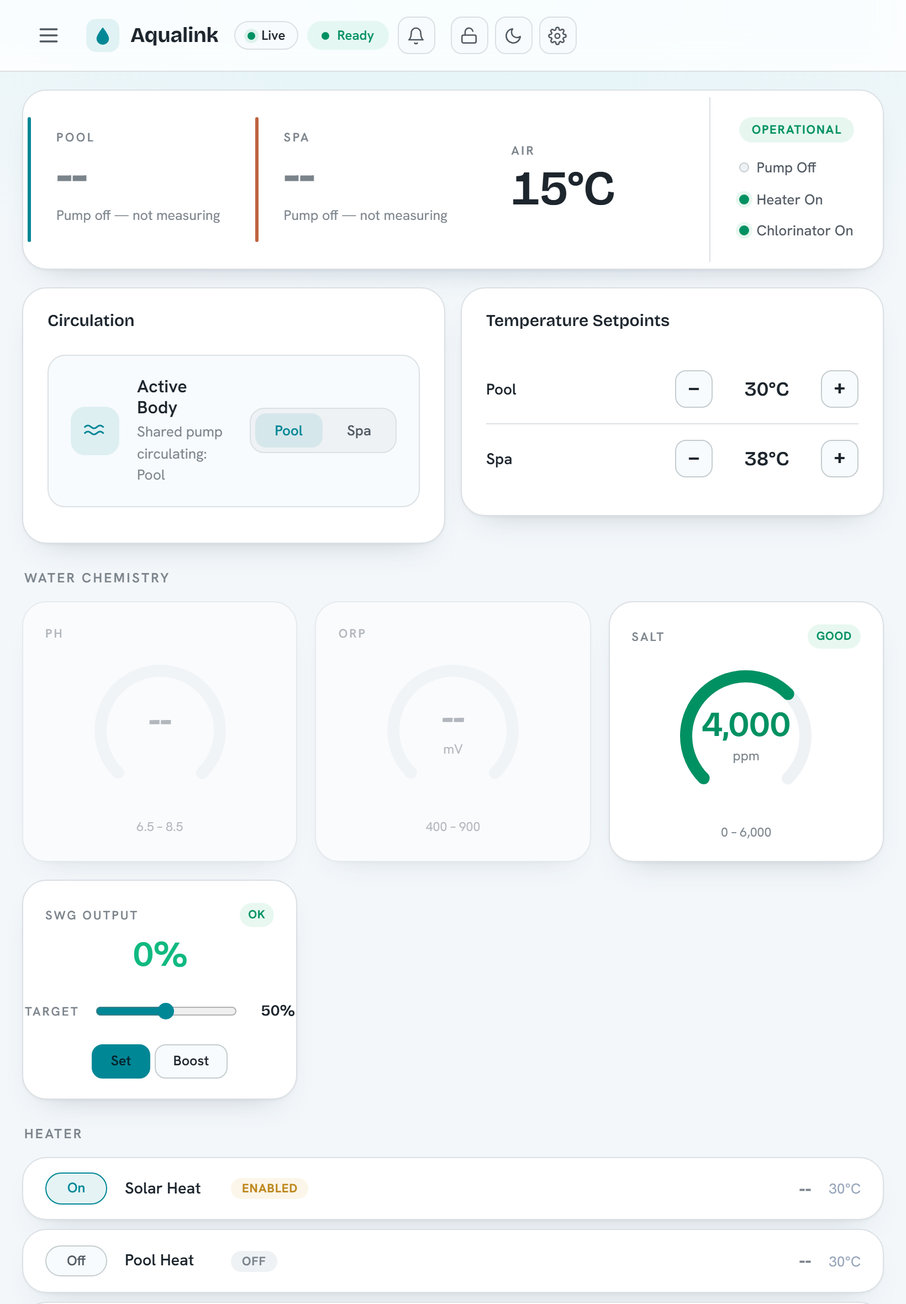
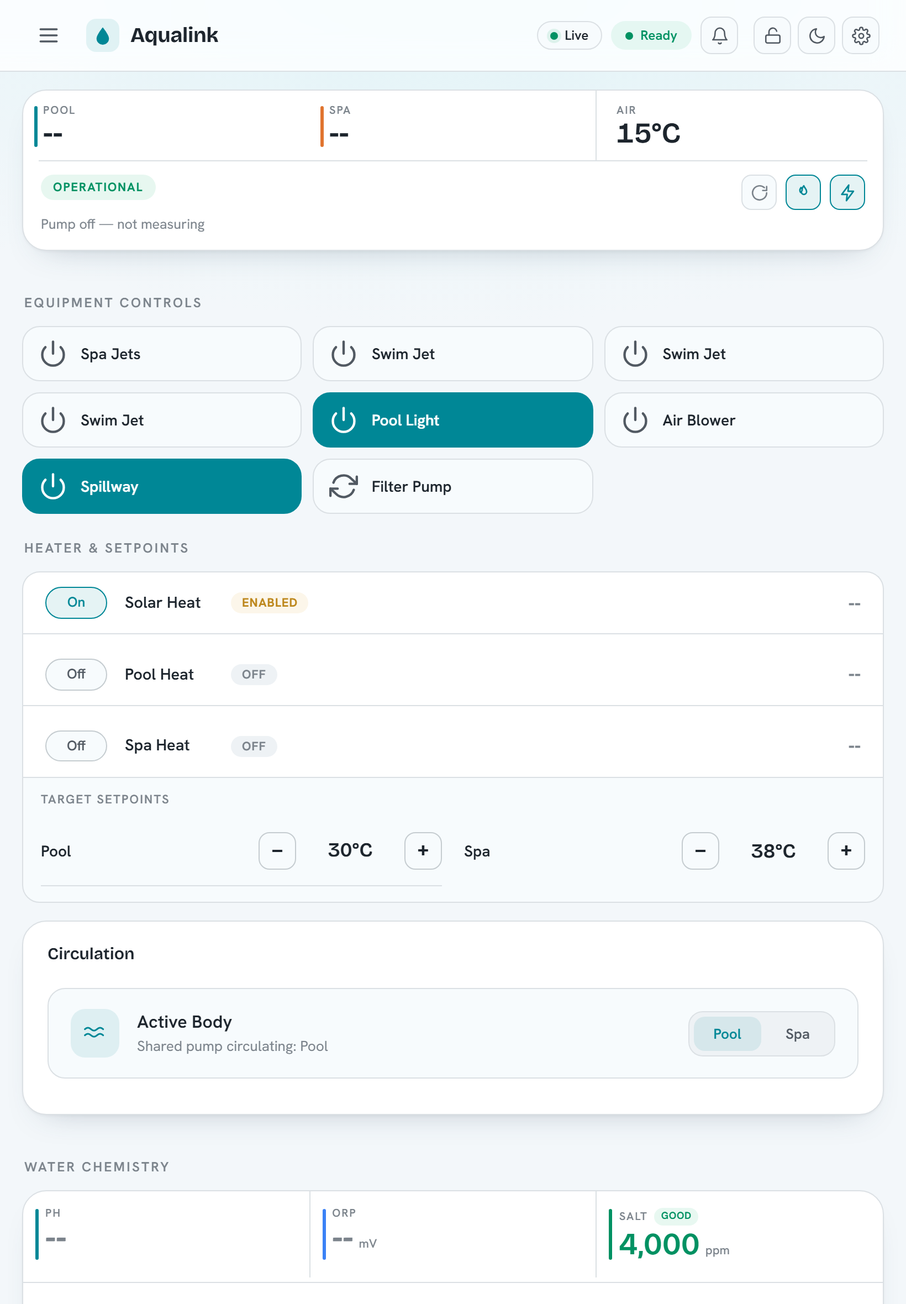
fix(web): match the phone dashboard to the mockup (summary, chem, heater, circ)
Close the remaining phone/compact gaps against the locked mockup:

- Status summary: a dedicated compact-summary card (divided Pool·Spa·Air
  temps + a divider + an OPERATIONAL pill with pump/heater/chlorinator
  status ICONS that fill with the accent when on + one caption), replacing
  the shrunk big strip. Shown < 1024 and on iPad landscape; desktop keeps
  the big strip.
- Heater: section title is now 'Heater & Setpoints', the footer is 'Target
  Setpoints', and the rows join the footer SEAMLESSLY — the flatten rule
  used :has(+ ...) but Alpine's <template> sits between the rows and the
  rendered footer, so the adjacent-sibling combinator never matched and the
  rounded corners stayed; switched to :has(~ ...) and gave the footer a
  surface-2 tint.
- Water chemistry: the band chip (GOOD) sits inline with the label, the
  unit is an inline <small> after the value, and SWG shows output+value
  with Set/Boost on the right and the target slider on its own row.
- Circulation: on phone the Pool/Spa toggle drops below the icon+text as a
  full-width segmented control (iPad portrait keeps it to the right).
- Equipment tap-tiles are shorter on compact (50 vs 66px).
- Header: right-align the status pills + control icons on iPad portrait.
- Bottom padding raised so the last card clears the fixed tab bar.

New i18n keys dash.heater_setpoints + dash.target_setpoints across all 9
locales (parity checked). Regenerated the mobile + tablet doc screenshots;
[…]

diff --git a/assets/web/index.html b/assets/web/index.html
@@ -1043,8 +1043,55 @@
         <!-- ====== DASHBOARD VIEW ====== -->
         <div class="dash-view" x-show="route === 'dashboard'" x-cloak x-data="dashboardView()">
 
-            <!-- Summary Strip -->
-            <div class="summary-strip card mt-2 mb-2" x-data="poolGraphic()" role="region" :aria-label="$t('dash.summary_aria')">
+            <!-- Compact status summary (phone / iPad portrait / landscape) — the
+                 divided Pool·Spa·Air temps, an OPERATIONAL pill with pump / heater
+                 / chlorinator status icons (accent-filled when on), and a single
+                 status caption. Replaces the big summary strip below on compact. -->
+            <div class="compact-summary card mt-2 mb-2" x-data="poolGraphic()"
+                 x-show="$store.layout.isCompact" x-cloak role="region" :aria-label="$t('dash.summary_aria')">
+                <div class="csum-temps">
+                    <div class="csum-cell csum-cell--pool">
+                        <span class="csum-accent" aria-hidden="true"></span>
+                        <span class="csum-label" x-text="$t('common.pool')"></span>
+                        <span class="csum-value" :class="$store.pool.tempStateClass('poolTemp')" x-text="poolTempDisplay"></span>
+                    </div>
+                    <div class="csum-cell csum-cell--spa" x-show="$store.pool.hasDualBody" x-cloak>
+                        <span class="csum-accent" aria-hidden="true"></span>
+                        <span class="csum-label" x-text="$t('common.spa')"></span>
+                        <span class="csum-value" :class="$store.pool.tempStateClass('spaTemp')" x-text="spaTempDisplay"></span>
+                    </div>
+                    <div class="csum-cell csum-cell--air">
+                        <span class="csum-accent" aria-hidden="true"></span>
+                        <span class="csum-label" x-text="$t('common.air')"></span>
+                        <span class="csum-value" :class="$store.pool.tempStateClass('airTemp')" x-text="airTempDisplay"></span>
+                    </div>
+                </div>
+                <div class="csum-divider" aria-hidden="true"></div>
+                <div class="csum-statusrow">
+                    <span class="hero-status-pill"
+                          :class="$store.pool.systemStatus === 'Operational' ? 'is-ok' : 'is-warn'"
+                          x-text="($store.pool.systemStatus ? $store.pool.systemStatusLabel : $t('common.unknown')).toUpperCase()"></span>
+                    <div class="csum-icons">
+                        <span class="csum-icon" :class="{ 'is-on': pumpActive }"
+                              :title="$t('dash.pump_state', { state: pumpActive ? $t('common.on') : $t('common.off') })">
+                            <svg viewBox="0 0 24 24" fill="none" stroke="currentColor" stroke-width="1.9" stroke-linecap="round" stroke-linejoin="round" aria-hidden="true"><path d="M21 12a9 9 0 1 1-3-6.7"/><path d="M21 4v5h-5"/></svg>
+                        </span>
+                        <span class="csum-icon" :class="{ 'is-on': heaterActive }"
+                              :title="$t('dash.heater_state', { state: heaterActive ? $t('common.on') : $t('common.off') })">
+                            <svg viewBox="0 0 24 24" fill="none" stroke="currentColor" stroke-width="1.9" stroke-linecap="round" stroke-linejoin="round" aria-hidden="true"><path d="M12 3c.8 2.6 3.6 3.8 3.6 7.4A3.6 3.6 0 0 1 12 14a3 3 0 0 1-3-3c0-1 .6-1.9 1-2.3C9 10.2 8 11.6 8 11.6 6.8 10.2 6.6 7.8 8.4 5.2 8.8 7 10 7.3 10 7.3 10 5.2 11 4 12 3z"/></svg>
+                        </span>
+                        <span class="csum-icon" x-show="hasChlorinator" x-cloak :class="{ 'is-on': chlorinatorActive }"
+                              :title="$t('dash.chlorinator_state', { state: chlorinatorActive ? $t('common.on') : $t('common.off') })">
+                            <svg viewBox="0 0 24 24" fill="none" stroke="currentColor" stroke-width="1.9" stroke-linecap="round" stroke-linejoin="round" aria-hidden="true"><path d="M13 2 4 14h7l-1 8 9-12h-7z"/></svg>
+                        </span>
+                    </div>
+                </div>
+                <div class="csum-caption" x-show="$store.pool.tempReason('poolTemp')" x-cloak
+                     x-text="$store.pool.tempReason('poolTemp')"></div>
+            </div>
+
+            <!-- Summary Strip (desktop) -->
+            <div class="summary-strip card mt-2 mb-2" x-data="poolGraphic()" x-show="!$store.layout.isCompact" x-cloak role="region" :aria-label="$t('dash.summary_aria')">
                 <!-- Pool -->
                 <div class="summary-section">
                     <span class="summary-accent summary-accent--pool" aria-hidden="true"></span>
@@ -1274,41 +1321,45 @@
                     <template x-for="type in ['ph', 'orp', 'salt']" :key="type">
                         <div class="chem-cell" x-data="chemistryGauge(type)" :class="'chem-cell--' + type">
                             <span class="chem-cell-accent" aria-hidden="true"></span>
-                            <span class="chem-cell-label" x-text="cfg.label"></span>
-                            <span class="chem-cell-value" :style="`color:${statusColor}`"
-                                  x-text="numericValue === null ? '--' : $nf(numericValue, cfg.decimals)"></span>
-                            <span class="chem-cell-unit" x-text="unitLabel"></span>
-                            <span class="chem-cell-band" x-show="band" :class="'gauge-band-' + (band || '')" x-text="statusLabel"></span>
+                            <span class="chem-cell-label">
+                                <span x-text="cfg.label"></span>
+                                <span class="chem-cell-band" x-show="band" x-cloak :class="'gauge-band-' + (band || '')" x-text="statusLabel"></span>
+                            </span>
+                            <span class="chem-cell-value" :style="`color:${statusColor}`"><span x-text="numericValue === null ? '--' : $nf(numericValue, cfg.decimals)"></span><small class="chem-cell-unit" x-show="unitLabel" x-cloak x-text="unitLabel"></small></span>
                         </div>
                     </template>
                 </div>
                 <div class="chem-compact-swg" x-data="chlorinatorControl()" x-show="present" x-cloak
                      role="region" :aria-label="$t('dash.swg_aria')">
                     <div class="chem-compact-divider" aria-hidden="true"></div>
-                    <div class="chem-swg-head">
-                        <span class="chem-swg-label" x-text="$t('dash.swg_output')"></span>
-                        <span class="chem-swg-value" :style="`color:${healthColor}`" x-text="actualLabel"></span>
-                        <span class="gauge-band-indicator" x-show="healthBand" :class="'gauge-band-' + (healthBand || '')" x-text="healthLabel"></span>
+                    <!-- SWG output + current value on the left, Set/Boost on the
+                         right (mock); the target slider sits on its own row below. -->
+                    <div class="chem-swg-top">
+                        <div class="chem-swg-meter">
+                            <span class="chem-swg-label" x-text="$t('dash.swg_output')"></span>
+                            <span class="chem-swg-value" :style="`color:${healthColor}`" x-text="actualLabel"></span>
+                            <span class="gauge-band-indicator" x-show="healthBand" x-cloak :class="'gauge-band-' + (healthBand || '')" x-text="healthLabel"></span>
+                        </div>
+                        <div class="swg-actions">
+                            <template x-if="$store.auth.can('equipment.control.chlorinator')">
+                                <div class="swg-actions-inner">
+                                    <button class="swg-set-btn" @click="setPercent()" :disabled="busy || !changed" x-text="$t('dash.set')"></button>
+                                    <button class="swg-boost-btn" :class="{ active: boost }" @click="toggleBoost()"
+                                            :disabled="busy" :aria-pressed="boost" x-text="$t('dash.boost')"></button>
+                                    <span class="cmd-badge cmd-applied" x-show="feedback === 'applied'" x-transition.opacity x-text="$t('cmd.set_ok')"></span>
+                                    <span class="cmd-badge cmd-rejected" x-show="feedback === 'rejected'" x-transition.opacity x-text="$t('cmd.failed')"></span>
+                                </div>
+                            </template>
+                            <span class="swg-locked-note" x-show="!$store.auth.can('equipment.control.chlorinator')" x-cloak x-text="$t('auth.locked_adjust')"></span>
+                        </div>
                     </div>
-                    <div class="swg-target">
+                    <div class="swg-target" x-show="$store.auth.can('equipment.control.chlorinator')" x-cloak>
                         <span class="swg-target-label" x-text="$t('dash.target')"></span>
                         <input type="range" min="0" max="100" step="5" class="swg-slider"
                                x-model.number="target" @input="touched = true"
-                               :disabled="busy || !$store.auth.can('equipment.control.chlorinator')"
+                               :disabled="busy"
                                :aria-label="$t('dash.target_aria')">
                         <span class="swg-target-value" x-text="$n(target) + '%'"></span>
-                    </div>
-                    <div class="swg-actions">
-                        <template x-if="$store.auth.can('equipment.control.chlorinator')">
-                            <div class="swg-actions-inner">
-                                <button class="swg-set-btn" @click="setPercent()" :disabled="busy || !changed" x-text="$t('dash.set')"></button>
-                                <button class="swg-boost-btn" :class="{ active: boost }" @click="toggleBoost()"
-                                        :disabled="busy" :aria-pressed="boost" x-text="$t('dash.boost')"></button>
-                                <span class="cmd-badge cmd-applied" x-show="feedback === 'applied'" x-transition.opacity x-text="$t('cmd.set_ok')"></span>
-                                <span class="cmd-badge cmd-rejected" x-show="feedback === 'rejected'" x-transition.opacity x-text="$t('cmd.failed')"></span>
-                            </div>
-                        </template>
-                        <span class="swg-locked-note" x-show="!$store.auth.can('equipment.control.chlorinator')" x-cloak x-text="$t('auth.locked_adjust')"></span>
                     </div>
                 </div>
             </div>
@@ -1318,7 +1369,7 @@
             <!-- Heater Controls -->
             <template x-if="heaterButtons().length > 0">
                 <div class="dsec sec-heater">
-                    <div class="section-title" x-text="$t('dash.heater')"></div>
+                    <div class="section-title" x-text="$store.layout.isCompact ? $t('dash.heater_setpoints') : $t('dash.heater')"></div>
                     <div class="heater-rows mb-2">
                         <template x-for="button in heaterButtons()" :key="button.id">
                             <div class="heater-row card" x-data="equipmentButton()">
@@ -1358,7 +1409,7 @@
                          standalone card, which is hidden here at phone width. -->
                     <template x-if="$store.layout.isCompact && ($store.pool.poolSetpoint !== '--' || $store.pool.spaSetpoint !== '--')">
                         <div class="heater-setpoints">
-                            <div class="heater-setpoints-title" x-text="$t('dash.temperature_setpoints')"></div>
+                            <div class="heater-setpoints-title" x-text="$t('dash.target_setpoints')"></div>
                             <div class="setpoint-row" x-show="$store.pool.poolSetpoint !== '--'">
                                 <span class="setpoint-row-label" x-text="$t('common.pool')"></span>
                                 <span class="setpoint-feedback">

diff --git a/assets/web/styles/components.css b/assets/web/styles/components.css
@@ -2995,12 +2995,15 @@ main input[type="range"] { accent-color: var(--accent); }
         border-bottom: 1px solid var(--border);
     }
     .sec-heater .heater-row:last-child { border-bottom: 0; }
-    /* When the setpoints footer follows, flatten the join so the two read as one card. */
-    .sec-heater .heater-rows:has(+ .heater-setpoints) { border-radius: 16px 16px 0 0; border-bottom: 0; }
+    /* When a setpoints footer exists, flatten the rows' bottom so the two read as
+       one seamless card. Use ~ (general sibling), NOT + : Alpine's <template x-if>
+       element sits between .heater-rows and the rendered .heater-setpoints, so the
+       adjacent-sibling combinator never matches (the rounded "curve" would stay). */
+    .sec-heater .heater-rows:has(~ .heater-setpoints) { border-radius: 16px 16px 0 0; border-bottom: 0; }
     .heater-setpoints {
         display: flex; flex-direction: column; gap: 10px;
         padding: 14px 16px;
-        background: var(--surface-1); border: 1px solid var(--border);
+        background: var(--surface-2); border: 1px solid var(--border);
         border-top: 1px solid var(--border); border-radius: 0 0 16px 16px;
     }
     .heater-setpoints-title {
@@ -3025,15 +3028,56 @@ main input[type="range"] { accent-color: var(--accent); }
     .chem-cell--ph   .chem-cell-accent { background: var(--accent); }
     .chem-cell--orp  .chem-cell-accent { background: #3b82f6; }
     .chem-cell--salt .chem-cell-accent { background: var(--good); }
-    .chem-cell-label { font: 600 10px/1 var(--font-ui); letter-spacing: .1em; text-transform: uppercase; color: var(--text-faint); }
-    .chem-cell-value { font-family: var(--font-display); font-weight: 600; font-size: 25px; line-height: 1.05; font-variant-numeric: tabular-nums; }
-    .chem-cell-unit { font-size: 11px; color: var(--text-faint); }
-    .chem-cell-band { margin-top: 2px; font: 600 10px/1.2 var(--font-ui); letter-spacing: .04em; }
+    /* Label carries the band chip inline (e.g. "Salt  GOOD"); value carries the
+       unit inline as a small suffix (e.g. "4,000 ppm"). */
+    .chem-cell-label { display: flex; align-items: center; gap: 6px; font: 600 10px/1 var(--font-ui); letter-spacing: .1em; text-transform: uppercase; color: var(--text-faint); }
+    .chem-cell-band { display: inline-flex; align-items: center; padding: 2px 6px; border-radius: 99px; font: 700 9px/1.3 var(--font-ui); letter-spacing: .04em; text-transform: uppercase; }
+    .chem-cell-value { display: flex; align-items: baseline; gap: 5px; font-family: var(--font-display); font-weight: 600; font-size: 25px; line-height: 1.05; font-variant-numeric: tabular-nums; }
+    .chem-cell-unit { font-family: var(--font-ui); font-weight: 500; font-size: 11px; color: var(--text-faint); }
     .chem-compact-swg { padding: 4px 16px 16px; }
     .chem-compact-divider { height: 1px; background: var(--border); margin: 0 -16px 14px; }
-    .chem-swg-head { display: flex; align-items: baseline; gap: 10px; margin-bottom: 12px; }
+    /* SWG: output label + value on the left, Set/Boost on the right; slider below. */
+    .chem-swg-top { display: flex; align-items: center; gap: 10px 12px; flex-wrap: wrap; margin-bottom: 12px; }
+    .chem-swg-meter { display: flex; align-items: baseline; gap: 8px; flex-wrap: wrap; }
     .chem-swg-label { font: 600 10px/1 var(--font-ui); letter-spacing: .1em; text-transform: uppercase; color: var(--text-faint); }
-    .chem-swg-value { margin-inline-start: auto; font-family: var(--font-display); font-weight: 600; font-size: 22px; font-variant-numeric: tabular-nums; }
+    .chem-swg-value { font-family: var(--font-display); font-weight: 600; font-size: 22px; font-variant-numeric: tabular-nums; }
+    .chem-swg-top .swg-actions { margin-inline-start: auto; }
+
+    /* Compact status summary: divided Pool·Spa·Air temps, a divider, then an
+       OPERATIONAL pill + pump/heater/chlorinator status icons, then one caption.
+       Replaces the big summary strip (which is hidden here). */
+    .compact-summary { padding: 0; overflow: hidden; }
+    .csum-temps { display: flex; }
+    .csum-cell {
+        position: relative; flex: 1 1 0; min-width: 0;
+        display: flex; flex-direction: column; gap: 2px;
+        padding: 13px 12px 11px; padding-inline-start: 18px;
+    }
+    .csum-cell--air { border-inline-start: 1px solid var(--border); }
+    .csum-accent {
+        position: absolute; inset-inline-start: 10px; top: 14px; bottom: 12px;
+        width: 3px; border-radius: 2px;
+    }
+    .csum-cell--pool .csum-accent { background: var(--accent); }
+    .csum-cell--spa  .csum-accent { background: #e0742f; }
+    .csum-cell--air  .csum-accent { display: none; }
+    .csum-label { font: 600 10px/1 var(--font-ui); letter-spacing: .1em; text-transform: uppercase; color: var(--text-faint); }
+    .csum-value { font-family: var(--font-display); font-weight: 600; font-size: 26px; line-height: 1.04; color: var(--text); font-variant-numeric: tabular-nums; }
+    .csum-value.temp-stale { color: var(--warn); }
+    .csum-divider { height: 1px; background: var(--border); margin: 0 14px; }
+    .csum-statusrow { display: flex; align-items: center; gap: 10px; padding: 12px 16px 2px; }
+    .csum-icons { margin-inline-start: auto; display: flex; gap: 8px; }
+    .csum-icon {
+        width: 32px; height: 32px; border-radius: 9px; display: grid; place-items: center;
+        background: var(--surface-2); border: 1px solid var(--border); color: var(--text-faint);
+    }
+    .csum-icon svg { width: 17px; height: 17px; }
+    .csum-icon.is-on { background: var(--accent-soft); border-color: var(--accent); color: var(--accent); }
+    .csum-caption { padding: 2px 16px 13px; font-size: 12.5px; color: var(--text-faint); }
+
+    /* Equipment tap-tiles are shorter on compact than the desktop 66px — the
+       phone/tablet ones were too tall for what they carry (icon + label). */
+    .eq-control { padding: 10px 14px; min-height: 50px; }
 }
 
 /* ===== Compact STACKING layout — phone + iPad portrait only (< 1024). Landscape
@@ -3052,11 +3096,12 @@ main input[type="range"] { accent-color: var(--accent); }
     .control-grid { grid-template-columns: 1fr 1fr; gap: 8px; }
 
     /* Jobs-to-be-done order: state (summary) -> act (equipment) -> heater ->
-       circulation/setpoints -> chemistry. */
+       circulation/setpoints -> chemistry. The compact summary is the visible one
+       here (the big strip is display:none), so it takes the summary slot. */
     .dash-view { display: flex; flex-direction: column; }
-    .dash-view > .summary-strip { order: 1; }
+    .dash-view > .compact-summary { order: 1; }
     .dash-view > .sec-equip { order: 2; }
-    .dash-view > .sec-heater { order: 3; }
+    .dash-view > .sec-heater { order: 3; margin-bottom: 16px; }
     .dash-view > .dash-cols { order: 4; }
     .dash-view > .sec-chem { order: 5; }
     .dash-view > .sec-other { order: 6; }
@@ -3111,7 +3156,7 @@ main input[type="range"] { accent-color: var(--accent); }
             "other   other"
             "foot    foot";
     }
-    .dash-view > .summary-strip { grid-area: summary; margin: 0; }
+    .dash-view > .compact-summary { grid-area: summary; margin: 0; }
     .dash-view > .sec-chem { grid-area: chem; }
     .dash-view > .sec-equip { grid-area: equip; }
     .dash-view > .sec-heater { grid-area: heater; }
@@ -3127,4 +3172,14 @@ main input[type="range"] { accent-color: var(--accent); }
     .heater-setpoints-title { grid-column: 1 / -1; }
 
     .summary-temp { font-size: 34px; }
+}
+
+/* Phone only (< 640): the Circulation card's Pool/Spa toggle drops BELOW the
+   icon + text (full-width segmented control) instead of sitting to the right —
+   there isn't room beside the text at phone width. iPad portrait keeps it on the
+   right (it has the room, per the mock). */
+@media (max-width: 639px) {
+    .circ-row { flex-wrap: wrap; }
+    .circ-seg { flex-basis: 100%; }
+    .circ-seg-btn { flex: 1; }
 }

diff --git a/scripts/capture-doc-screenshots.js b/scripts/capture-doc-screenshots.js
@@ -212,12 +212,16 @@ async function captureMobile(browser) {
       await ctx.close();
     });
 
-    // Tablet portrait: 820-wide — the inline nav collapses to a hamburger.
+    // Tablet portrait: 820-wide — the inline nav collapses to a hamburger, and
+    // (like the phone) the compact layout replaces the circular dials with the
+    // consolidated chemistry card, so wait on that rather than the dials.
     await shot('aqualink-automate-tablet-dashboard.png', async () => {
       const { ctx, page } = await newPage(browser, base, { width: 820, height: 1180 });
       await page.goto('/');
-      await waitLiveDashboard(page);
       await page.locator('nav.app-nav .nav-hamburger').waitFor({ timeout: 10_000 });
+      await page.locator('.chem-compact').waitFor({ timeout: 20_000 });
+      await page.locator('.chem-compact .chem-cell-value').filter({ hasText: /\d/ }).first().waitFor({ timeout: 20_000 });
+      await page.waitForTimeout(750);
       await tidy(page);
       await page.waitForTimeout(400);
       await page.screenshot(png('aqualink-automate-tablet-dashboard.png'));

diff --git a/assets/web/styles/app.css b/assets/web/styles/app.css
@@ -2097,11 +2097,16 @@ nav.app-nav .nav-hamburger:hover { color: var(--text); background: var(--surface
 @media (min-width: 640px) and (max-width: 1023px) {
     nav.app-nav .nav-links { display: none; }
     nav.app-nav .nav-hamburger { display: inline-flex; }
+    /* With the inline routes hidden, push the status pills + control icons to
+       the right edge (the hidden nav-links no longer supplies the auto margin). */
+    nav.app-nav .nav-status { margin-inline-start: auto; }
 }
 @media (max-width: 639px) {
     nav.app-nav .nav-links { display: none; }
     .mobile-tab-bar { display: flex; }
-    main { padding-bottom: calc(72px + env(safe-area-inset-bottom, 0px)); }
+    /* Clear the fixed bottom tab bar (~64px) plus the iOS home-indicator inset so
+       the last card on every view isn't hidden behind it. */
+    main { padding-bottom: calc(88px + env(safe-area-inset-bottom, 0px)); }
 
     /* Phone top bar = one non-wrapping row: brand on the left, the live/ready
        status + alerts bell pushed to the right. The settings toggles (monitor,

diff --git a/assets/web/i18n/yi.js b/assets/web/i18n/yi.js
@@ -142,6 +142,8 @@
         'dash.set': 'שטעלן',
         'dash.boost': 'פֿאַרשטאַרקן',
         'dash.heater': 'היצער',
+        'dash.heater_setpoints': 'היצער און סעטפּוינטן',
+        'dash.target_setpoints': 'ציל סעטפּוינטן',
         'dash.toggle_device': 'איבערשאַלטן {device}',
         'dash.equipment_controls': 'געצייג-קאָנטראָלן',
         'dash.loading_equipment': 'לאָדט אַרײַן געצייג...',

diff --git a/assets/web/i18n/ar.js b/assets/web/i18n/ar.js
@@ -144,6 +144,8 @@
         'dash.set': 'ضبط',
         'dash.boost': 'تعزيز',
         'dash.heater': 'السخّان',
+        'dash.heater_setpoints': 'السخّان ونقاط الضبط',
+        'dash.target_setpoints': 'نقاط الضبط المستهدفة',
         'dash.toggle_device': 'تبديل {device}',
         'dash.equipment_controls': 'عناصر تحكم المعدات',
         'dash.loading_equipment': 'جارٍ تحميل المعدات...',

diff --git a/assets/web/i18n/he.js b/assets/web/i18n/he.js
@@ -144,6 +144,8 @@
         'dash.set': 'הגדרה',
         'dash.boost': 'בוסט',
         'dash.heater': 'מחמם',
+        'dash.heater_setpoints': 'מחמם ונקודות יעד',
+        'dash.target_setpoints': 'נקודות יעד',
         'dash.toggle_device': 'החלפת מצב {device}',
         'dash.equipment_controls': 'בקרות ציוד',
         'dash.loading_equipment': 'טוען ציוד...',

diff --git a/assets/web/i18n/fr.js b/assets/web/i18n/fr.js
@@ -145,6 +145,8 @@
         'dash.set': 'Régler',
         'dash.boost': 'Boost',
         'dash.heater': 'Réchauffeur',
+        'dash.heater_setpoints': 'Réchauffeur et consignes',
+        'dash.target_setpoints': 'Consignes cibles',
         'dash.toggle_device': 'Basculer {device}',
         'dash.equipment_controls': 'Commandes des équipements',
         'dash.loading_equipment': 'Chargement des équipements...',

diff --git a/assets/web/i18n/ja.js b/assets/web/i18n/ja.js
@@ -144,6 +144,8 @@
         'dash.set': '設定',
         'dash.boost': 'ブースト',
         'dash.heater': 'ヒーター',
+        'dash.heater_setpoints': 'ヒーターと設定温度',
+        'dash.target_setpoints': '目標設定温度',
         'dash.toggle_device': '{device} を切り替え',
         'dash.equipment_controls': '機器操作',
         'dash.loading_equipment': '機器を読み込み中...',

diff --git a/assets/web/i18n/es.js b/assets/web/i18n/es.js
@@ -145,6 +145,8 @@
         'dash.set': 'Ajustar',
         'dash.boost': 'Boost',
         'dash.heater': 'Calentador',
+        'dash.heater_setpoints': 'Calentador y consignas',
+        'dash.target_setpoints': 'Consignas objetivo',
         'dash.toggle_device': 'Alternar {device}',
         'dash.equipment_controls': 'Controles de equipos',
         'dash.loading_equipment': 'Cargando equipos...',

diff --git a/assets/web/i18n/de.js b/assets/web/i18n/de.js
@@ -145,6 +145,8 @@
         'dash.set': 'Setzen',
         'dash.boost': 'Boost',
         'dash.heater': 'Heizung',
+        'dash.heater_setpoints': 'Heizung & Sollwerte',
+        'dash.target_setpoints': 'Zielsollwerte',
         'dash.toggle_device': '{device} umschalten',
         'dash.equipment_controls': 'Gerätesteuerung',
         'dash.loading_equipment': 'Geräte werden geladen...',

diff --git a/assets/web/i18n/zh.js b/assets/web/i18n/zh.js
@@ -143,6 +143,8 @@
         'dash.set': '设置',
         'dash.boost': '强化',
         'dash.heater': '加热器',
+        'dash.heater_setpoints': '加热器和设定点',
+        'dash.target_setpoints': '目标设定点',
         'dash.toggle_device': '切换 {device}',
         'dash.equipment_controls': '设备控制',
         'dash.loading_equipment': '正在加载设备...',
